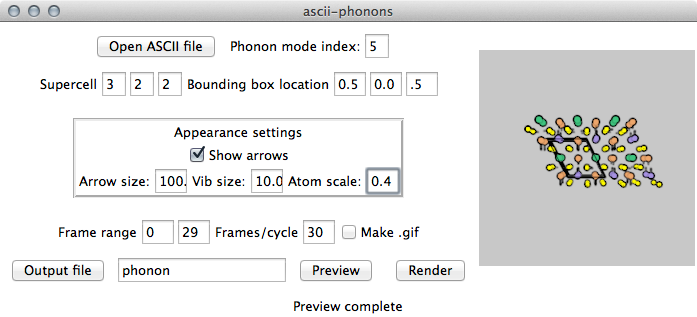
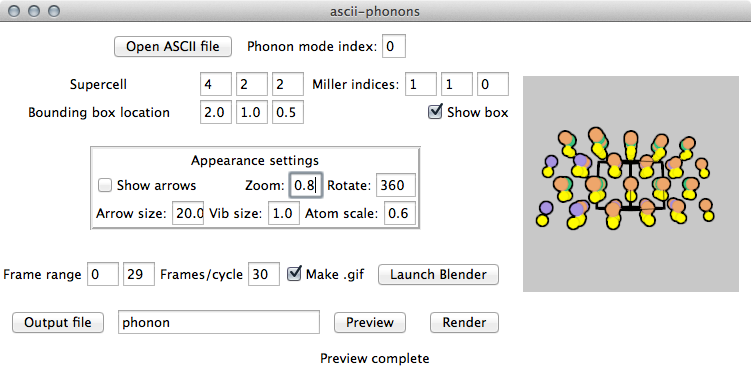
update docs for Miller indices

diff --git a/docs/CLI.rst b/docs/CLI.rst
@@ -80,10 +80,21 @@ The list of accepted arguments may also be viewed by calling with the "help" arg
 |                                   |Y Z of the lattice vectors.               |
 |                                   |                                          |
 +-----------------------------------+------------------------------------------+
+| ``--miller X Y Z``                | Miller indices determining camera        |
+|                                   | direction. Negative and fractional values|
+|                                   | are permitted.                           |
+|                                   |                                          |
++-----------------------------------+------------------------------------------+
 | ``--camera_rot ROT``              | Rotated camera position in degrees.      |
 |                                   |                                          |
 |                                   |                                          |
 |                                   |                                          |
++-----------------------------------+------------------------------------------+
+| ``--zoom X.Y``                    | Floating-point zoom adjustment. A        |
+|                                   | sensible starting point is calculated    |
+|                                   | automatically and corresponds to the     |
+|                                   | value 1.0, but this factor can be        |
+|                                   | used for further adjustment.             |
 +-----------------------------------+------------------------------------------+
 | ``--config PATH/FILE.conf``       | Path to user configuration file.         |
 |                                   |                                          |
